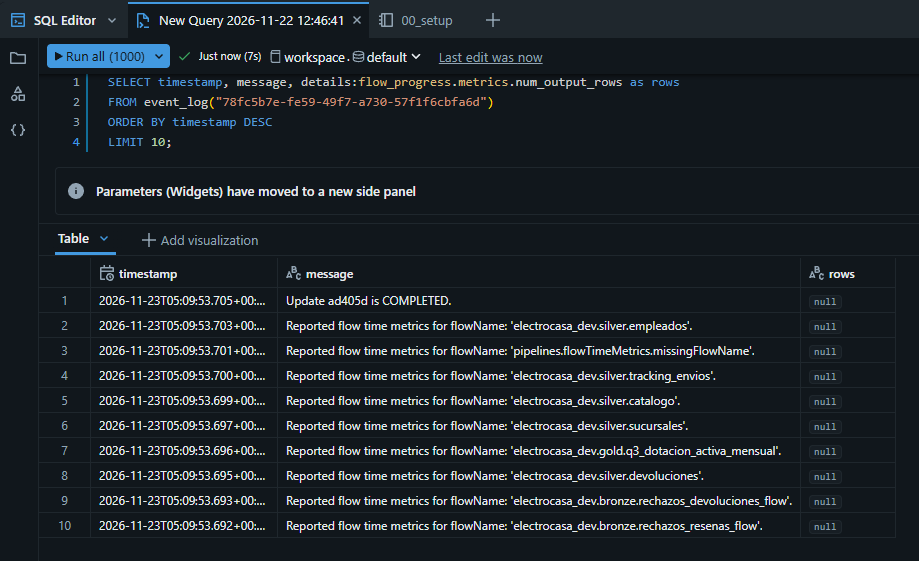
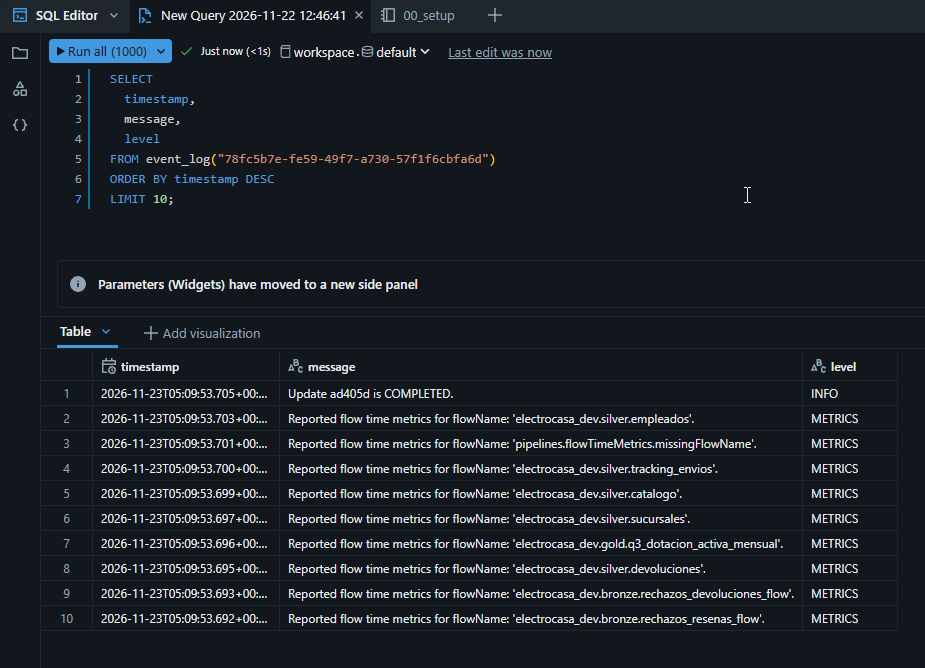
docs(evidencias): incorporar capturas 09, 10 y 11 completando las 11 evidencias oficiales en alta resolucion

diff --git a/README.md b/README.md
@@ -271,6 +271,38 @@ Se crearon funciones de enmascaramiento gobernadas para proteger información de
   ALTER TABLE electrocasa_dev.silver.empleados ALTER COLUMN salario SET MASK electrocasa_dev.silver.mask_salario;
   ```
 
+* **Demostración de Consulta de Datos Enmascarados vs. Reales:**
+  
+  **A. Consulta ejecutada por miembro de `electrocasa_ingenieria` (o Pipeline Owner):**
+  ```sql
+  SELECT id_empleado, nombre, dni, salario, cargo 
+  FROM electrocasa_dev.silver.empleados 
+  LIMIT 2;
+  ```
+  ```text
+  +-------------+------------------+----------+---------+------------------+
+  | id_empleado | nombre           | dni      | salario | cargo            |
+  +-------------+------------------+----------+---------+------------------+
+  | EMP-001     | Juan Pérez       | 45892134 | 3200.00 | Vendedor Senior  |
+  | EMP-002     | María Rodríguez  | 71203498 | 2800.00 | Asistente Tienda |
+  +-------------+------------------+----------+---------+------------------+
+  ```
+
+  **B. Consulta ejecutada por miembro de `electrocasa_analistas` (usuario no autorizado):**
+  ```sql
+  SELECT id_empleado, nombre, dni, salario, cargo 
+  FROM electrocasa_dev.silver.empleados 
+  LIMIT 2;
+  ```
+  ```text
+  +-------------+------------------+----------+---------+------------------+
+  | id_empleado | nombre           | dni      | salario | cargo            |
+  +-------------+------------------+----------+---------+------------------+
+  | EMP-001     | Juan Pérez       | ***-34   |   -1.00 | Vendedor Senior  |
+  | EMP-002     | María Rodríguez  | ***-98   |   -1.00 | Asistente Tienda |
+  +-------------+------------------+----------+---------+------------------+
+  ```
+
 * **Consideración de Arquitectura sobre el Dueño del Pipeline (*Pipeline Owner*):**  
   De acuerdo con las directrices de Unity Catalog, el refresco del pipeline ejecuta con los privilegios del propietario del recurso (`ridgwayjose39@gmail.com`). Dado que dicho usuario pertenece al grupo `electrocasa_ingenieria`, el motor de DLT procesa los datos reales de colaboradores sin aplicar el enmascaramiento durante las transformaciones intermedias. Esto asegura que los Data Marts derivados en Gold (`gold.q3_dotacion_activa_mensual` y `gold.q4_ventas_vendedor_historico`) computen rotación, dotación activa y comisiones sobre cifras íntegras, mientras que cualquier usuario externo o analista que consulte las tablas gobernadas recibe los valores enmascarados de forma segura.
 
@@ -538,7 +570,9 @@ electrocasa-lakehouse/
 │   ├── 06_auditoria_system_error.jpg   # Evidencia de restricción en catálogo system
 │   ├── 07_system_lakeflow_not_found.png # Error de tabla no encontrada en system.lakeflow
 │   ├── 08_system_billing_usage.png     # Registros de consumo real en system.billing.usage
-│   └── 09_dlt_event_log_query.jpg      # Consulta ejecutada al Event Log de DLT en SQL Editor
+│   ├── 09_dlt_event_log_query.png      # Consulta ejecutada al Event Log de DLT en SQL Editor
+│   ├── 10_bundle_deploy_cli.png        # Validación estricta y despliegue exitoso con Databricks CLI
+│   └── 11_bundle_resource_explorer.png # Recursos y tareas sincronizados en Bundle Resource Explorer
 └── README.md                           # Documentación técnica y evidencias oficiales
 ```
 
@@ -557,3 +591,9 @@ databricks bundle deploy -t dev
 # 4. Disparar el Lakeflow Job orquestador
 databricks bundle run -t dev electrocasa_etl_job
 ```
+
+![Validación y Despliegue de Bundle con CLI](img/10_bundle_deploy_cli.png)
+*Figura 10: Validación estricta (`bundle validate --strict -t dev`) y despliegue exitoso (`bundle deploy -t dev`) hacia el workspace mediante Databricks CLI.*
+
+![Recursos del Bundle en VS Code](img/11_bundle_resource_explorer.png)
+*Figura 11: Vista del Bundle Resource Explorer en Visual Studio Code evidenciando la orquestación del Job (`electrocasa_orchestration_job`) con sus 3 tareas y el Pipeline Medallion vinculados al catálogo `electrocasa_dev`.*
